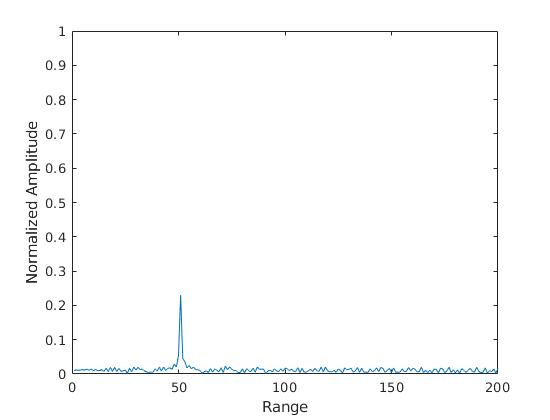
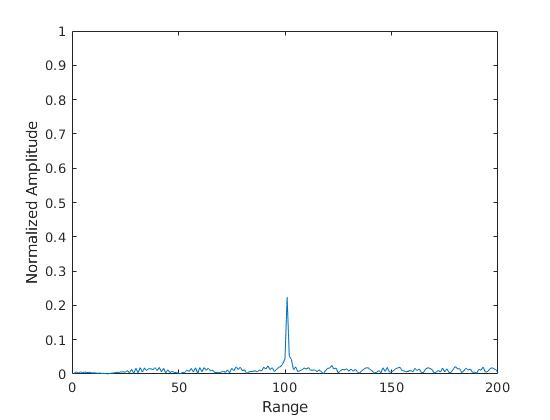
[Hanyu] (#01) Add README.md

Changed region(s): [[0.1236, 0.7119, 0.9273, 0.8976]]

diff --git a/radar_target_generation_and_detection.m b/radar_target_generation_and_detection.m
@@ -14,7 +14,7 @@ clc;
 % *%TODO* :
 % define the target's initial position and velocity. Note : Velocity
 % remains contant
-targetPosition = 50;
+targetPosition = 100;
 targetVelocity = 50;
 
 
@@ -172,7 +172,6 @@ offset = 1.5;
 [rRow, vCol] = size(RDM);
 noise_level = zeros(rRow-2*(Tr+Gr), vCol-2*(Td+Gd));
 [nRow, nCol] = size(noise_level);
-CFAR = zeros(size(RDM));
 
 % *%TODO* :
 %design a loop such that it slides the CUT across range doppler map by

diff --git a/README.md b/README.md
@@ -1,0 +1,51 @@
+# Radar Target Generation and Detection
+In this project, we will use Matlab to generate radar signal and utilize the signal to complete detection task.
+
+
+### Project Pipeline
+<img src="./pipeline.png" width="779" height="414" />
+
+### Radar System Requirements
+<img src="./radar_system.png" />
+
+### CFAR Implementation
+
+**1. Implementation steps for the 2D CFAR process**
+
+After obatining our 2D-FFT data as follow:<br>
+
+<img src="./output/2D_FFT.jpg"  />
+
+I design to set up a silding window to implement the CFAR method, I will let this window slide through the 2D-FFT matrix, and generate corresponding noise level for the cell under test (CUT). 
+
+``` Matlab
+window = ones(2*Tr+2*Gr+1,2*Td+2*Gd+1);
+window(Tr+1:Tr+2*Gr+1,Td+1:Td+2*Gd+1) = 0;
+window = window/((2*Tr+2*Gr+1)*(2*Td+2*Gd+1) - (2*Gr+1)*(2*Gd+1));
+```
+
+<img src="./output/window.jpg"  />
+
+while silding, the center point of this window should overlap the current CUT point of the 2D-FFT matrix (RDM), and thus we can get the dot product of this window and the corresponding region in the 2D-FFT matrix. We sum up every elements in the resulting matrix, then we can get the noise level on the CUT. For a better result, we should add a offset value to this noise level. If the CUT value is under the noise level, we will see the CUT value as noise and cut it off.
+
+**2. Selection of Training, Guard cells and offset**
+
+| Tr  | Td  | Gr  | Gd  | Offset |
+| --- | --- | --- | --- | ------ |
+| 10  | 8   | 4   | 4   | 1.5    |
+
+Tr: Traing cells along range dimension<br>
+Td: Traing cells along doppler frequency dimension<br>
+Gr: Guarding cells along range dimension<br>
+Gd: Guarding cells along doppler frequency dimension<br>
+
+**3. Steps taken to suppress the non-thresholded cells at the edges**
+
+After we get the noise level matrix using our siling window as dicussed above. We can make a mask by padding the noise level matrix as follow:
+
+``` Matlab
+noise_level = padarray(noise_level,[Tr+Gr,Td+Gd],1e5,'both');
+CFAR = RDM.*(RDM>noise_level);
+```
+
+The 1e5 value in the code block is supposed to be bigger than evevy decibels in the range doppler map (RDM). Thus we can make a mask by using '**RDM>noise_level**'. The edges of this mask are all 0 which can suppress the non-thresholded cells at the edges of the RDM.
